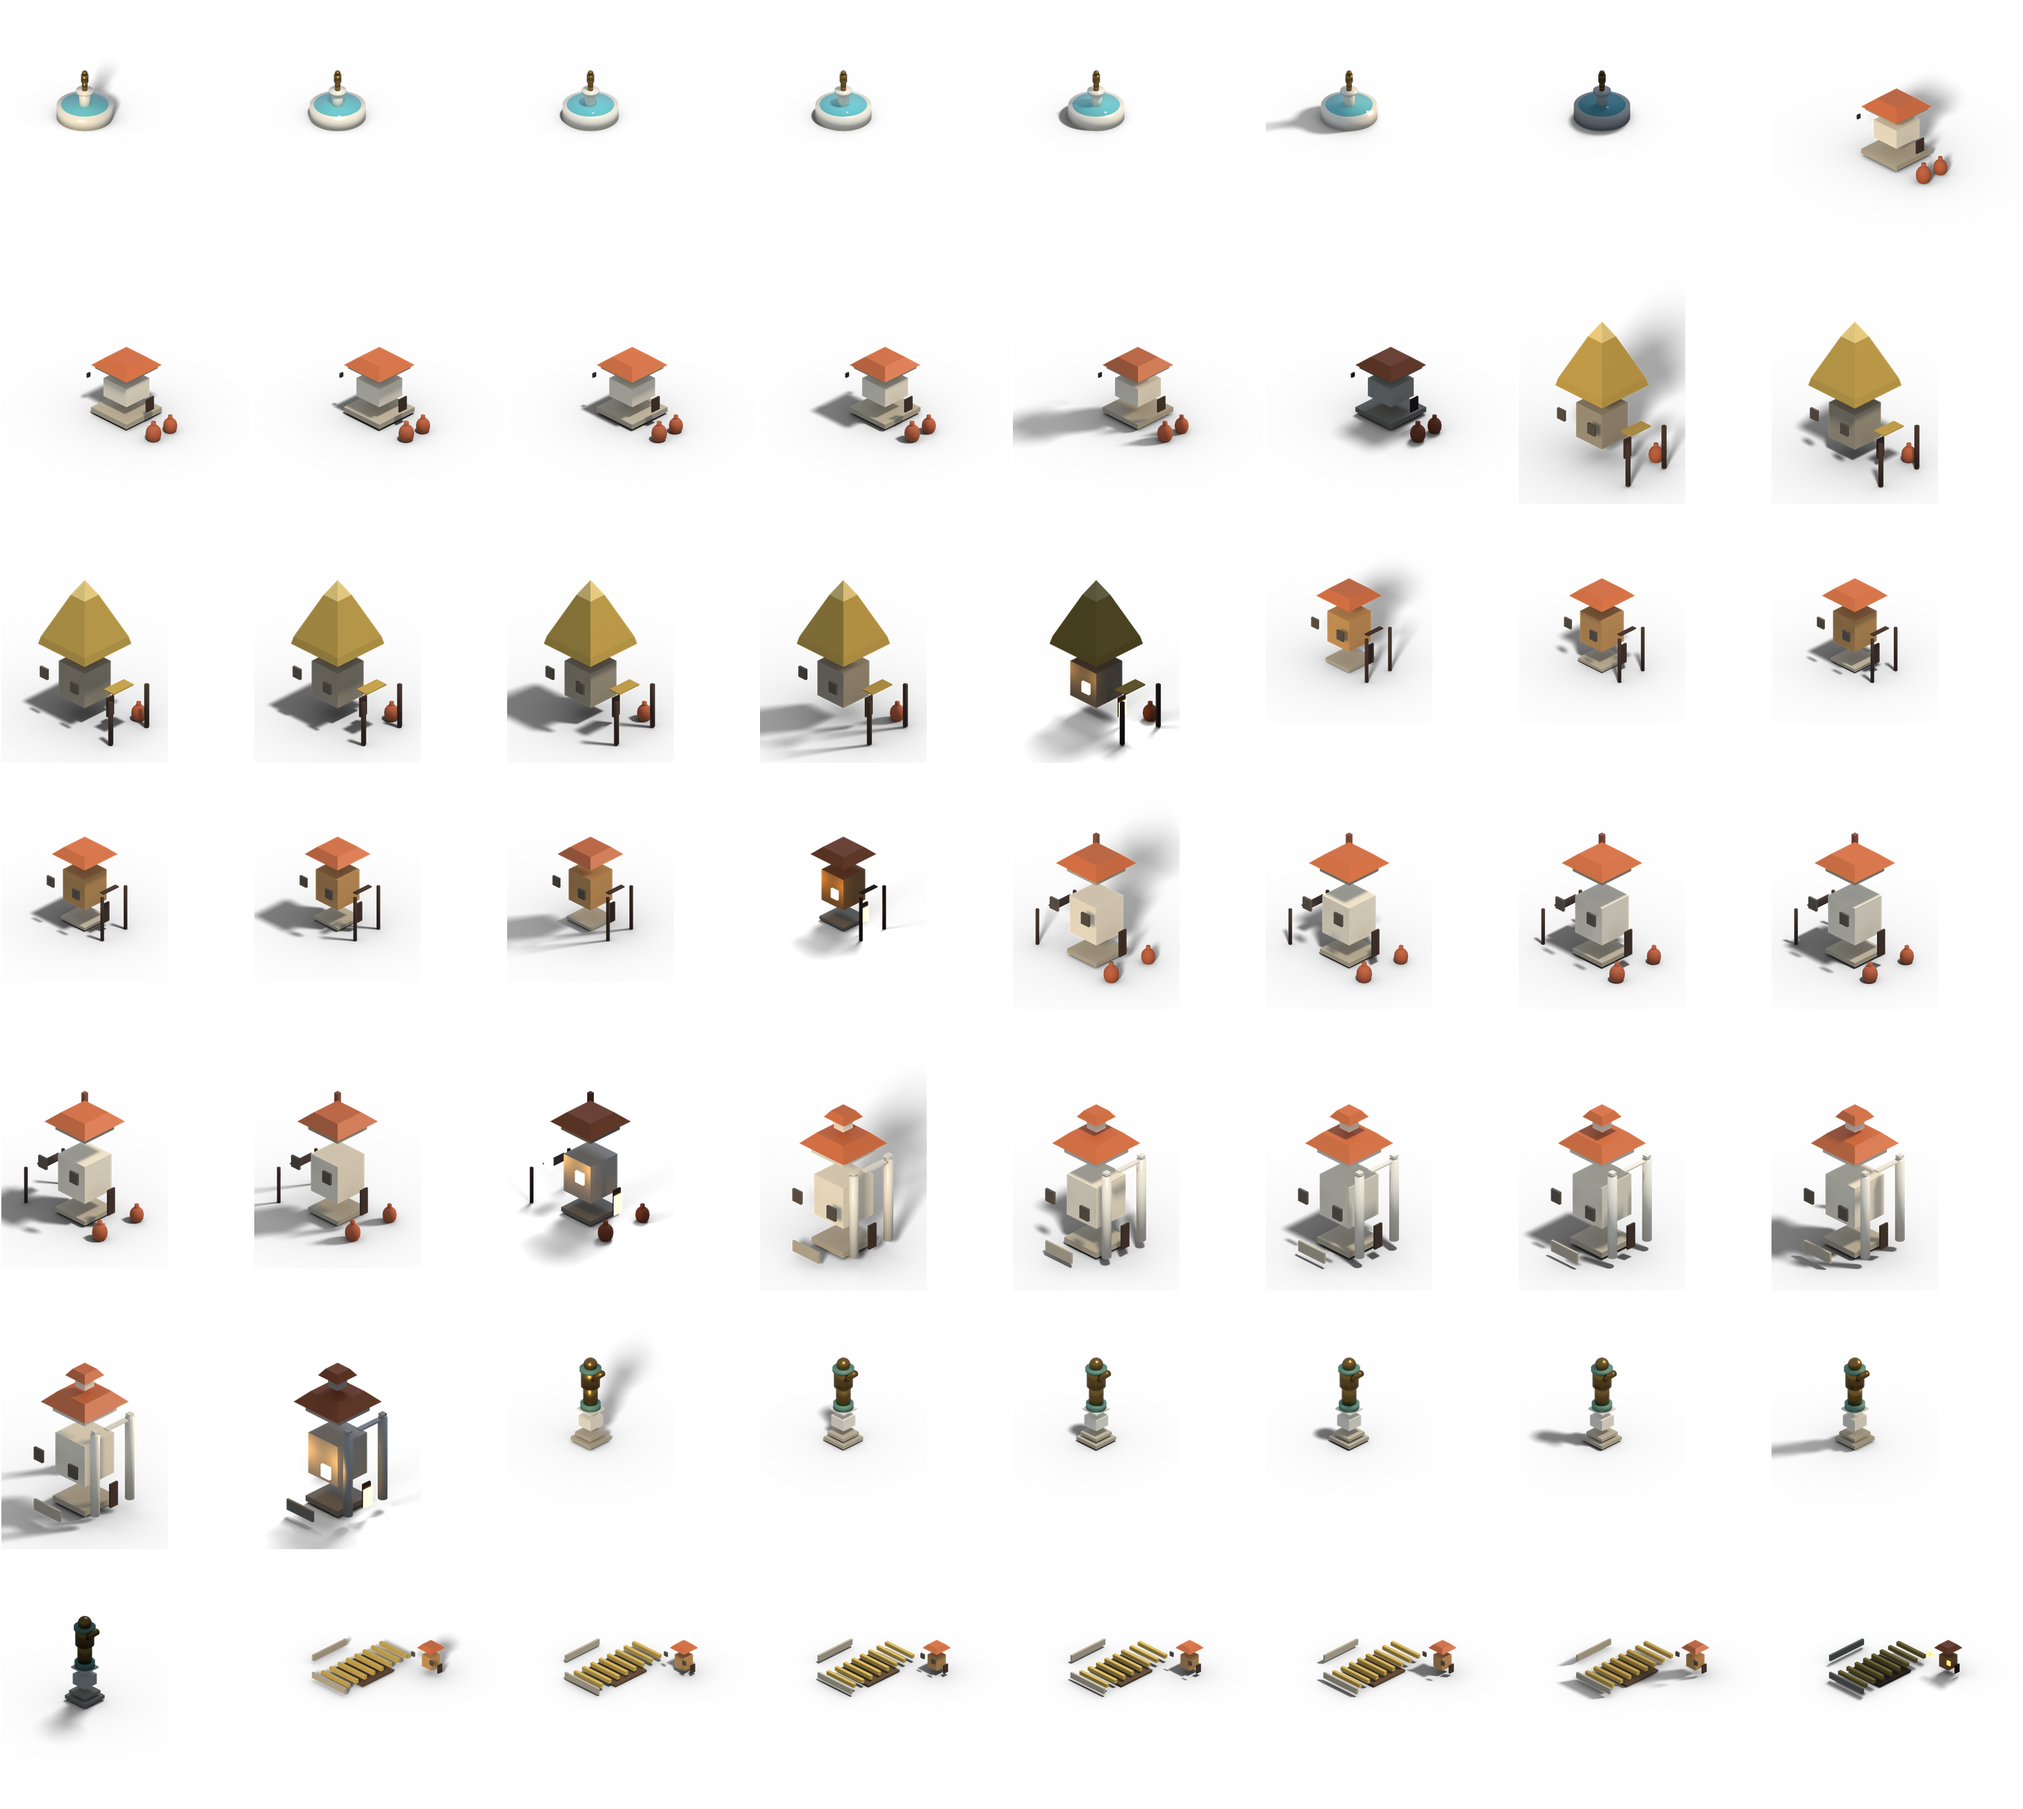
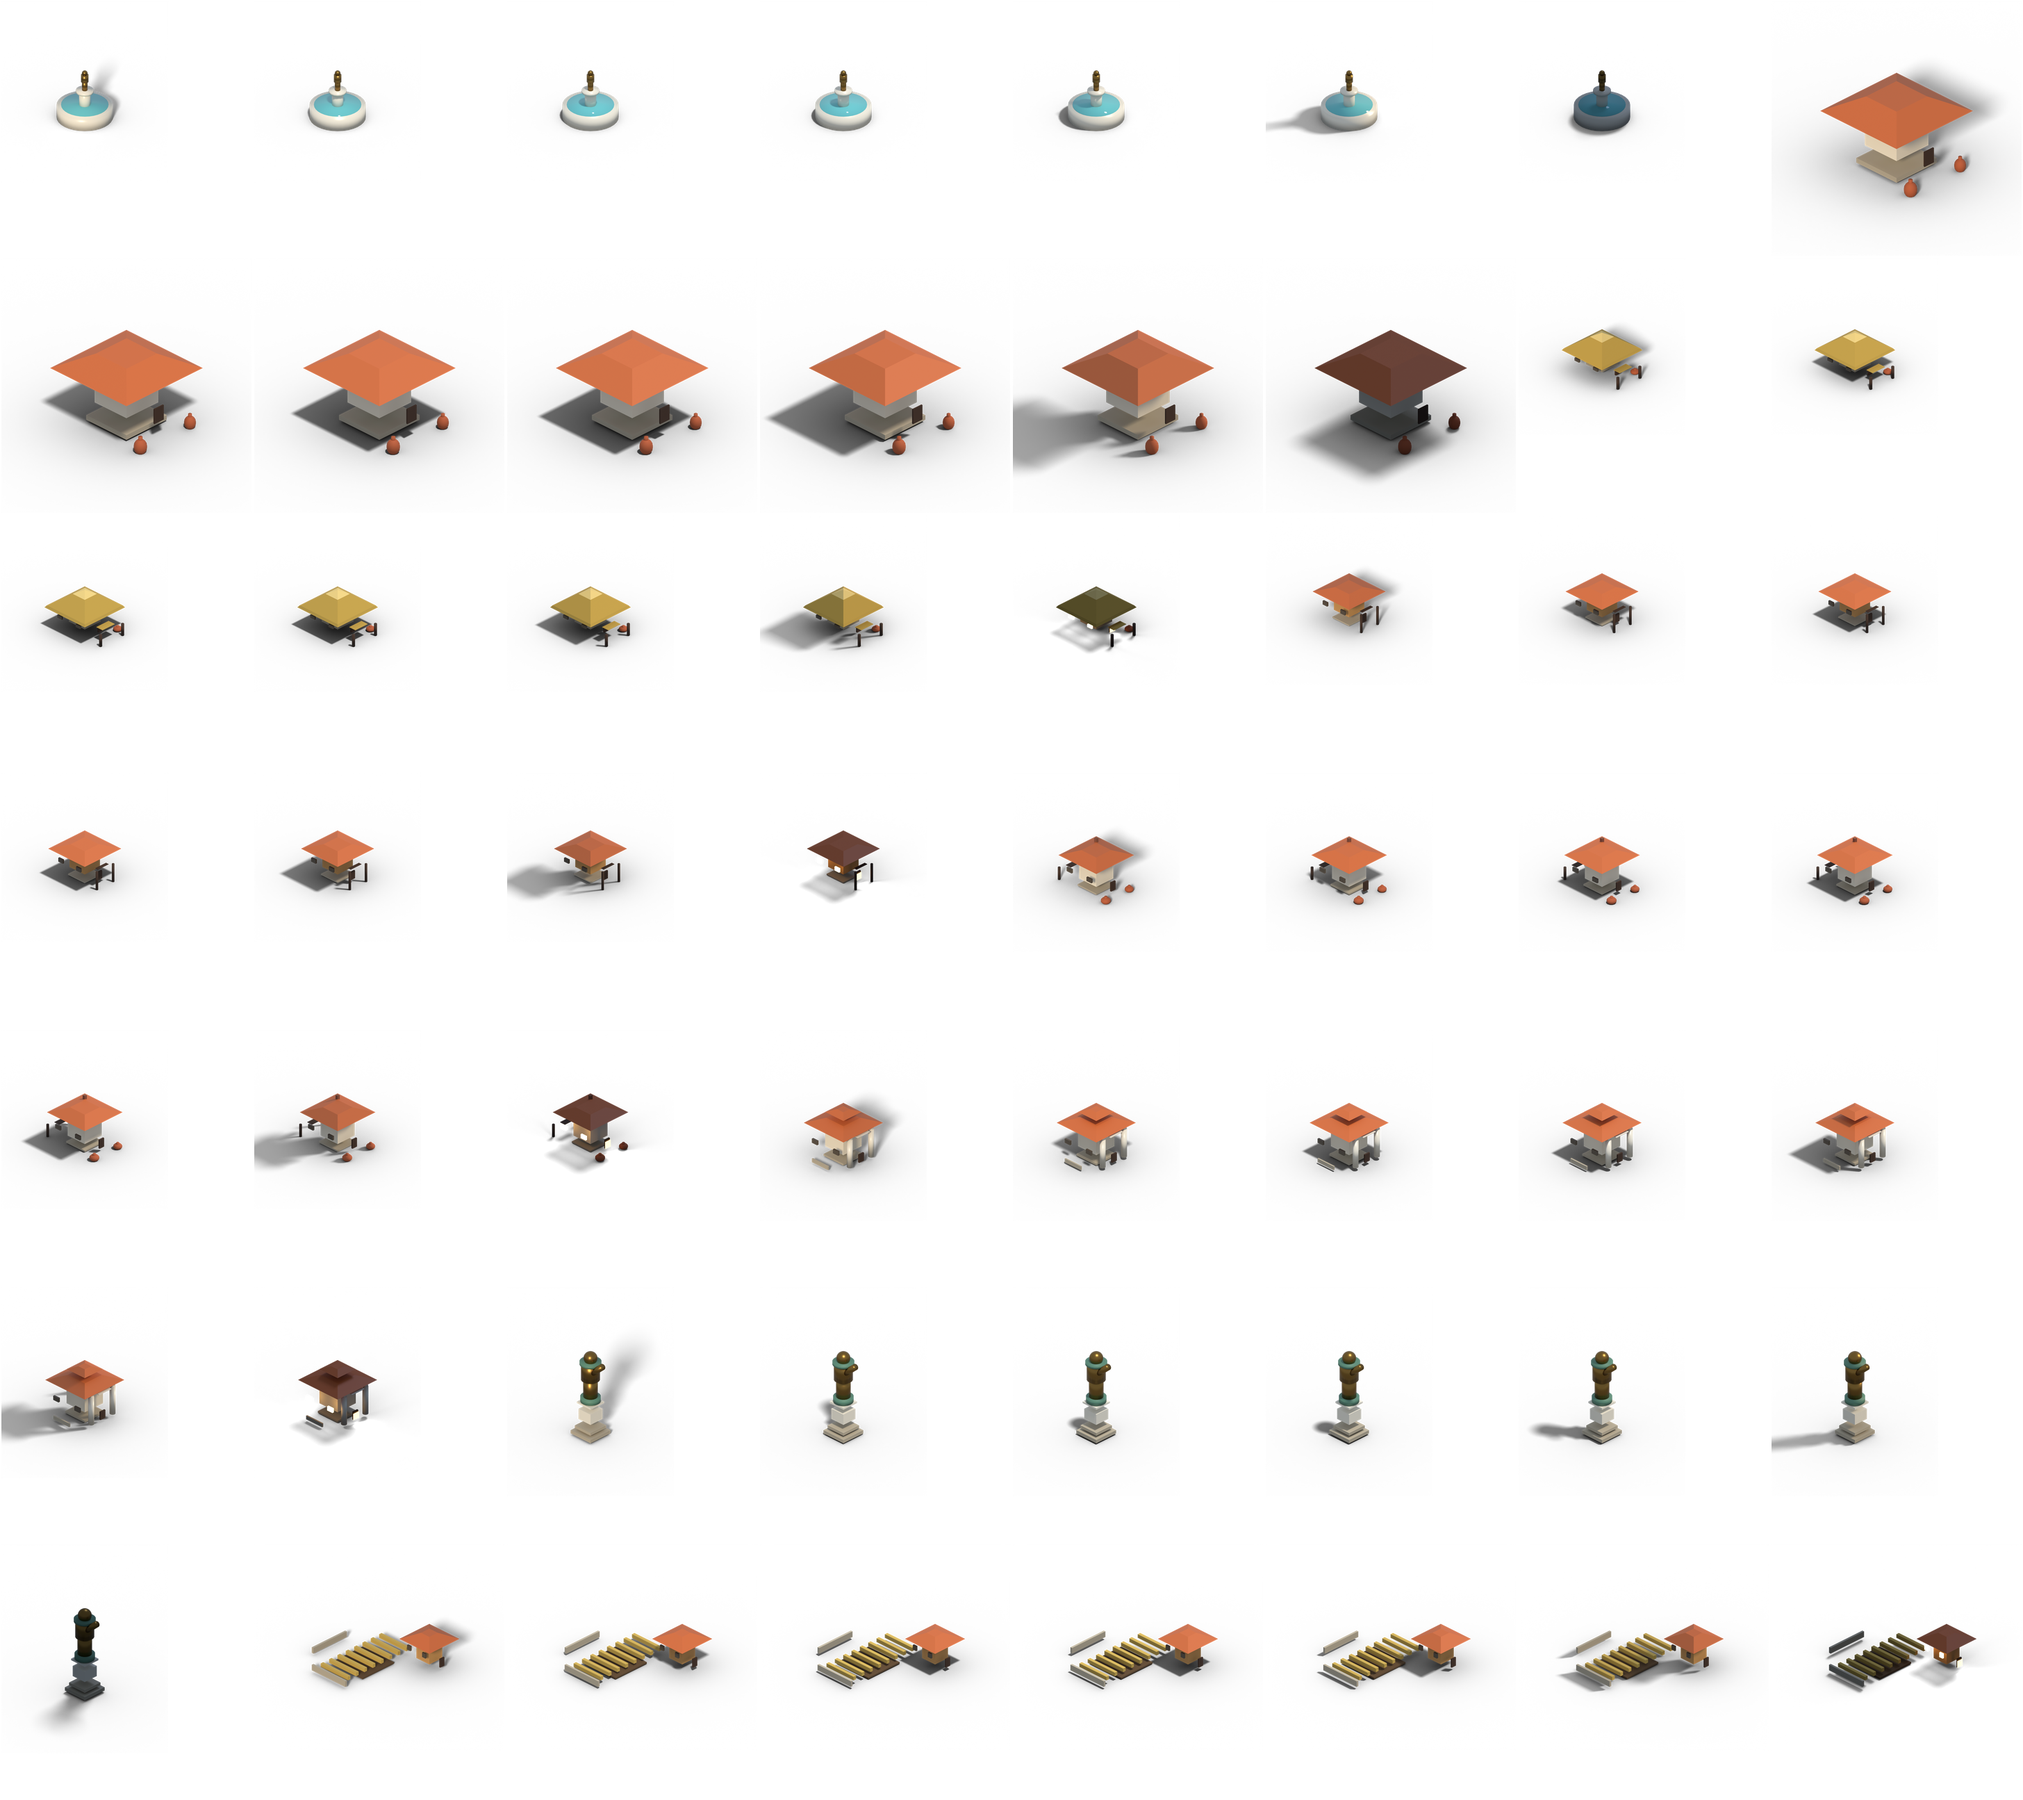
Fit houses to tile, enlarge granary, add contact sheet tool

diff --git a/pipeline/iso_render.py b/pipeline/iso_render.py
@@ -125,9 +125,29 @@ def add_pyramid(name, centre, radius, depth, mat, vertices=4):
     return obj
 
 
-def add_hip_roof(name, centre, radius, depth, mat, ridge_radius=0.12):
+def square_radius(half_side):
+    """A 4-vertex cone rotated 45 degrees has half-side radius / sqrt(2)."""
+    return half_side * math.sqrt(2)
+
+
+def compress_height(factor):
+    """Flatten everything built so far towards the ground, keeping footprints intact."""
+    for obj in bpy.data.objects:
+        if obj.type != "MESH":
+            continue
+        obj.location.z *= factor
+        obj.scale.z *= factor
+
+
+def add_hip_roof(name, centre, half_side, depth, mat, ridge_half=0.08):
     """A pyramid roof flattened at the peak — reads as a hip roof, not a shack point."""
-    bpy.ops.mesh.primitive_cone_add(radius1=radius, radius2=ridge_radius, depth=depth, location=centre, vertices=4)
+    bpy.ops.mesh.primitive_cone_add(
+        radius1=square_radius(half_side),
+        radius2=square_radius(ridge_half),
+        depth=depth,
+        location=centre,
+        vertices=4,
+    )
     obj = bpy.context.active_object
     obj.name = name
     obj.rotation_euler[2] = math.radians(45)
@@ -230,7 +250,7 @@ def build_house_0(phase):
     wood = material("wood", WOOD, roughness=0.85)
     clay = material("clay", CLAY, roughness=0.8)
 
-    s = 0.425 / 0.26
+    s = 0.36 / 0.26
     half = 0.26 * s
     wall_h = 0.56 * s
     add_box("walls", (0, 0, wall_h / 2), (half * 2, half * 2, wall_h), fieldstone)
@@ -242,9 +262,9 @@ def build_house_0(phase):
     cap_h = 0.34 * s
     cap_top_r = base_r * 0.3
     ridge_h = 0.12 * s
-    add_hip_roof("roof_eave", (0, 0, wall_h + eave_h / 2), base_r, eave_h, straw_dull, ridge_radius=eave_top_r)
-    add_hip_roof("roof_cap", (0, 0, wall_h + eave_h + cap_h / 2), eave_top_r, cap_h, straw_dull, ridge_radius=cap_top_r)
-    add_pyramid("roof_ridge", (0, 0, wall_h + eave_h + cap_h + ridge_h / 2), cap_top_r, ridge_h, straw_ridge)
+    add_hip_roof("roof_eave", (0, 0, wall_h + eave_h / 2), base_r, eave_h, straw_dull, ridge_half=eave_top_r)
+    add_hip_roof("roof_cap", (0, 0, wall_h + eave_h + cap_h / 2), eave_top_r, cap_h, straw_dull, ridge_half=cap_top_r)
+    add_pyramid("roof_ridge", (0, 0, wall_h + eave_h + cap_h + ridge_h / 2), square_radius(cap_top_r), ridge_h, straw_ridge)
     depth = eave_h + cap_h + ridge_h
 
     lean_x = half + 0.1 * s
@@ -254,7 +274,9 @@ def build_house_0(phase):
 
     add_amphora("pot", (half + 0.08 * s, 0.2 * s, 0.0), 0.16 * s, clay)
 
-    return {"kind": "house", "variant": 0, "footprint": 1, "height": wall_h + depth + 0.15}
+    squash = 0.45
+    compress_height(squash)
+    return {"kind": "house", "variant": 0, "footprint": 1, "height": (wall_h + depth) * squash + 0.15}
 
 
 def build_house_1(phase):
@@ -265,18 +287,20 @@ def build_house_1(phase):
     stone = material("stone", STONE, roughness=0.8)
     wood = material("wood", WOOD, roughness=0.85)
 
-    s = 0.425 / 0.30
+    s = 0.36 / 0.30
     half = 0.3 * s
     add_box("plinth", (0, 0, 0.03 * s), (half * 2 + 0.06 * s, half * 2 + 0.06 * s, 0.06 * s), stone)
     add_box("walls", (0, 0, 0.4 * s), (half * 2, half * 2, 0.68 * s), ochre)
-    add_hip_roof("roof", (0, 0, 0.78 * s), 0.32 * s, 0.08 * s, terracotta, ridge_radius=0.2 * s)
+    add_hip_roof("roof", (0, 0, 0.78 * s), half + 0.06 * s, 0.12 * s, terracotta, ridge_half=0.14 * s)
     add_openings(half, 0.38 * s, 0.68 * s, night, wood)
 
     add_box("awning", (half + 0.04 * s, 0, 0.48 * s), (0.1 * s, 0.42 * s, 0.02 * s), wood)
     add_cylinder("awning_post1", (half + 0.1 * s, -0.16 * s, 0.24 * s), 0.018 * s, 0.48 * s, wood, vertices=8)
     add_cylinder("awning_post2", (half + 0.1 * s, 0.16 * s, 0.24 * s), 0.018 * s, 0.48 * s, wood, vertices=8)
 
-    return {"kind": "house", "variant": 1, "footprint": 1, "height": 0.84 * s + 0.1}
+    squash = 0.6
+    compress_height(squash)
+    return {"kind": "house", "variant": 1, "footprint": 1, "height": 0.84 * s * squash + 0.1}
 
 
 def build_house_2(phase):
@@ -289,20 +313,22 @@ def build_house_2(phase):
     clay = material("clay", CLAY, roughness=0.8)
     brick = material("brick", (0.5, 0.3, 0.22), roughness=0.85)
 
-    s = 0.46 / 0.32
+    s = 0.38 / 0.32
     half = 0.32 * s
     add_box("plinth", (0, 0, 0.04 * s), (half * 2 + 0.06 * s, half * 2 + 0.06 * s, 0.08 * s), stone)
     add_box("walls", (0, 0, 0.4 * s), (half * 2, half * 2, 0.72 * s), whitewash)
     add_box("cornice", (0, 0, 0.83 * s), (half * 2 + 0.06 * s, half * 2 + 0.06 * s, 0.05 * s), stone)
-    add_hip_roof("roof", (0, 0, 0.94 * s), 0.34 * s, 0.09 * s, terracotta, ridge_radius=0.2 * s)
-    add_box("chimney", (-0.18 * s, 0.18 * s, 0.98 * s), (0.08 * s, 0.08 * s, 0.2 * s), brick)
+    add_hip_roof("roof", (0, 0, 0.94 * s), half + 0.035 * s, 0.14 * s, terracotta, ridge_half=0.14 * s)
+    add_box("chimney", (-0.18 * s, 0.18 * s, 1.02 * s), (0.08 * s, 0.08 * s, 0.24 * s), brick)
     add_openings(half, 0.44 * s, 0.72 * s, night, wood)
 
     add_pergola("pergola", -half, 0.0, 0.0, 0.16 * s, 0.5 * s, 0.34 * s, wood)
     add_amphora("jar1", (half + 0.08 * s, -0.22 * s, 0.0), 0.2 * s, clay)
     add_amphora("jar2", (half + 0.08 * s, 0.22 * s, 0.0), 0.18 * s, clay)
 
-    return {"kind": "house", "variant": 2, "footprint": 1, "height": 1.1 * s + 0.15}
+    squash = 0.55
+    compress_height(squash)
+    return {"kind": "house", "variant": 2, "footprint": 1, "height": 1.1 * s * squash + 0.15}
 
 
 def build_house_3(phase):
@@ -316,14 +342,14 @@ def build_house_3(phase):
     clay = material("clay", CLAY, roughness=0.8)
     cypress = material("cypress", CYPRESS, roughness=0.9)
 
-    s = 0.46 / 0.34
+    s = 0.38 / 0.34
     half = 0.34 * s
     add_box("plinth", (0, 0, 0.05 * s), (half * 2 + 0.06 * s, half * 2 + 0.06 * s, 0.1 * s), stone)
     add_box("walls", (0, 0, 0.48 * s), (half * 2, half * 2, 0.76 * s), whitewash)
     add_box("cornice", (0, 0, 0.89 * s), (half * 2 + 0.06 * s, half * 2 + 0.06 * s, 0.06 * s), marble)
-    add_hip_roof("roof", (0, 0, 1.01 * s), 0.36 * s, 0.1 * s, terracotta, ridge_radius=0.22 * s)
-    add_box("clerestory", (0, 0, 1.14 * s), (0.22 * s, 0.22 * s, 0.14 * s), whitewash)
-    add_hip_roof("clerestory_roof", (0, 0, 1.24 * s), 0.16 * s, 0.06 * s, terracotta, ridge_radius=0.1 * s)
+    add_hip_roof("roof", (0, 0, 1.01 * s), half + 0.03 * s, 0.14 * s, terracotta, ridge_half=0.16 * s)
+    add_box("clerestory", (0, 0, 1.16 * s), (0.24 * s, 0.24 * s, 0.16 * s), whitewash)
+    add_hip_roof("clerestory_roof", (0, 0, 1.28 * s), 0.17 * s, 0.08 * s, terracotta, ridge_half=0.06 * s)
 
     porch_x = half - 0.02 * s
     for y in (-0.2 * s, 0.2 * s):
@@ -337,7 +363,9 @@ def build_house_3(phase):
 
     add_cypress_pot("cypress", (-half - 0.1 * s, half + 0.05 * s, 0.0), 0.38 * s, clay, cypress)
 
-    return {"kind": "house", "variant": 3, "footprint": 1, "height": 1.4 * s + 0.2}
+    squash = 0.55
+    compress_height(squash)
+    return {"kind": "house", "variant": 3, "footprint": 1, "height": 1.4 * s * squash + 0.2}
 
 
 def build_wheat_farm(phase):
@@ -358,10 +386,10 @@ def build_wheat_farm(phase):
     add_wall("wall_south", (-0.2, -1.0, 0.11), 1.6, 0.22, 0.08, stone, along_x=True)
     add_wall("wall_west", (-1.0, -0.2, 0.11), 1.6, 0.22, 0.08, stone, along_x=False)
 
-    hx, hy = 0.62, 0.62
-    add_box("hut_wall", (hx, hy, 0.23), (0.44, 0.44, 0.46), ochre)
-    add_hip_roof("hut_roof", (hx, hy, 0.51), 0.24, 0.07, terracotta, ridge_radius=0.15)
-    add_openings(0.22, 0.28, 0.46, night, wood, (hx, hy))
+    hx, hy = 0.6, 0.6
+    add_box("hut_wall", (hx, hy, 0.25), (0.62, 0.62, 0.5), ochre)
+    add_hip_roof("hut_roof", (hx, hy, 0.56), 0.36, 0.12, terracotta, ridge_half=0.1)
+    add_openings(0.31, 0.3, 0.5, night, wood, (hx, hy))
 
     return {"kind": "wheatFarm", "variant": 0, "footprint": 2, "height": 0.65}
 
@@ -375,19 +403,19 @@ def build_granary(phase):
     clay = material("clay", CLAY, roughness=0.8)
     vent = material("vent", (0.08, 0.06, 0.05), roughness=0.6)
 
-    add_box("base", (0, 0, 0.09), (1.7, 1.7, 0.18), stone)
-    add_box("walls", (0, 0, 0.53), (1.1, 1.1, 0.7), whitewash)
-    add_box("cornice", (0, 0, 0.91), (1.5, 1.5, 0.06), stone)
-    add_hip_roof("roof", (0, 0, 1.04), 0.6, 0.16, terracotta, ridge_radius=0.34)
+    add_box("base", (0, 0, 0.09), (1.9, 1.9, 0.18), stone)
+    add_box("walls", (0, 0, 0.58), (1.5, 1.5, 0.8), whitewash)
+    add_box("cornice", (0, 0, 1.01), (1.62, 1.62, 0.06), stone)
+    add_hip_roof("roof", (0, 0, 1.18), 0.9, 0.28, terracotta, ridge_half=0.36)
 
-    add_box("loading_door", (0.56, 0, 0.42), (0.05, 0.36, 0.5), wood)
-    for y in (-0.35, 0.35):
-        add_box("vent", (-0.56, y, 0.68), (0.05, 0.14, 0.16), vent)
+    add_box("loading_door", (0.76, 0, 0.46), (0.05, 0.44, 0.56), wood)
+    for y in (-0.45, 0.45):
+        add_box("vent", (-0.76, y, 0.8), (0.05, 0.16, 0.18), vent)
 
-    add_amphora("jar1", (0.95, -0.3, 0.0), 0.4, clay)
-    add_amphora("jar2", (0.95, 0.1, 0.0), 0.36, clay)
+    add_amphora("jar1", (0.88, -0.55, 0.0), 0.34, clay)
+    add_amphora("jar2", (0.88, 0.62, 0.0), 0.3, clay)
 
-    return {"kind": "granary", "variant": 0, "footprint": 2, "height": 1.25}
+    return {"kind": "granary", "variant": 0, "footprint": 2, "height": 1.4}
 
 
 def build_fountain(phase):

diff --git a/pipeline/sheet.py b/pipeline/sheet.py
@@ -1,0 +1,54 @@
+"""Contact sheet of rendered sprites at game scale, each over its tile diamond.
+
+    python3 pipeline/sheet.py [phase] [out.png]
+"""
+
+import json
+import math
+import os
+import sys
+
+from PIL import Image, ImageDraw
+
+from pack import IN_DIR, south_vertex_offset
+
+phase = int(sys.argv[1]) if len(sys.argv) > 1 else 2
+out_path = sys.argv[2] if len(sys.argv) > 2 else "/tmp/sheet.png"
+
+with open(os.path.join(IN_DIR, "manifest.json")) as handle:
+    manifest = json.load(handle)
+
+tile_w = manifest["tileWidth"]
+tile_h = manifest["tileHeight"]
+pixels_per_unit = tile_w / math.sqrt(2)
+sprites = sorted(
+    (s for s in manifest["sprites"] if s["phase"] == phase),
+    key=lambda s: (s["kind"], s["variant"]),
+)
+
+cell_w = 2 * tile_w + 40
+cell_h = 420
+sheet = Image.new("RGBA", (cell_w * len(sprites), cell_h), (70, 70, 70, 255))
+draw = ImageDraw.Draw(sheet)
+
+for index, sprite in enumerate(sprites):
+    image = Image.open(os.path.join(IN_DIR, sprite["file"])).convert("RGBA")
+    image = image.resize((sprite["width"], sprite["height"]), Image.LANCZOS)
+    anchor_y = image.height / 2 + south_vertex_offset(sprite["footprint"], sprite["heightUnits"], pixels_per_unit)
+
+    origin_x = index * cell_w + cell_w / 2
+    origin_y = cell_h - 40
+    size = sprite["footprint"]
+    diamond = [
+        (origin_x, origin_y),
+        (origin_x + size * tile_w / 2, origin_y - size * tile_h / 2),
+        (origin_x, origin_y - size * tile_h),
+        (origin_x - size * tile_w / 2, origin_y - size * tile_h / 2),
+    ]
+    draw.polygon(diamond, outline=(255, 80, 80, 255))
+    draw.line([(index * cell_w, 0), (index * cell_w, cell_h)], fill=(40, 40, 40, 255))
+    sheet.alpha_composite(image, (int(origin_x - image.width / 2), int(origin_y - anchor_y)))
+    draw.text((index * cell_w + 6, 6), f"{sprite['kind']} {sprite['variant']}", fill=(255, 255, 255, 255))
+
+sheet.save(out_path)
+print(out_path)
